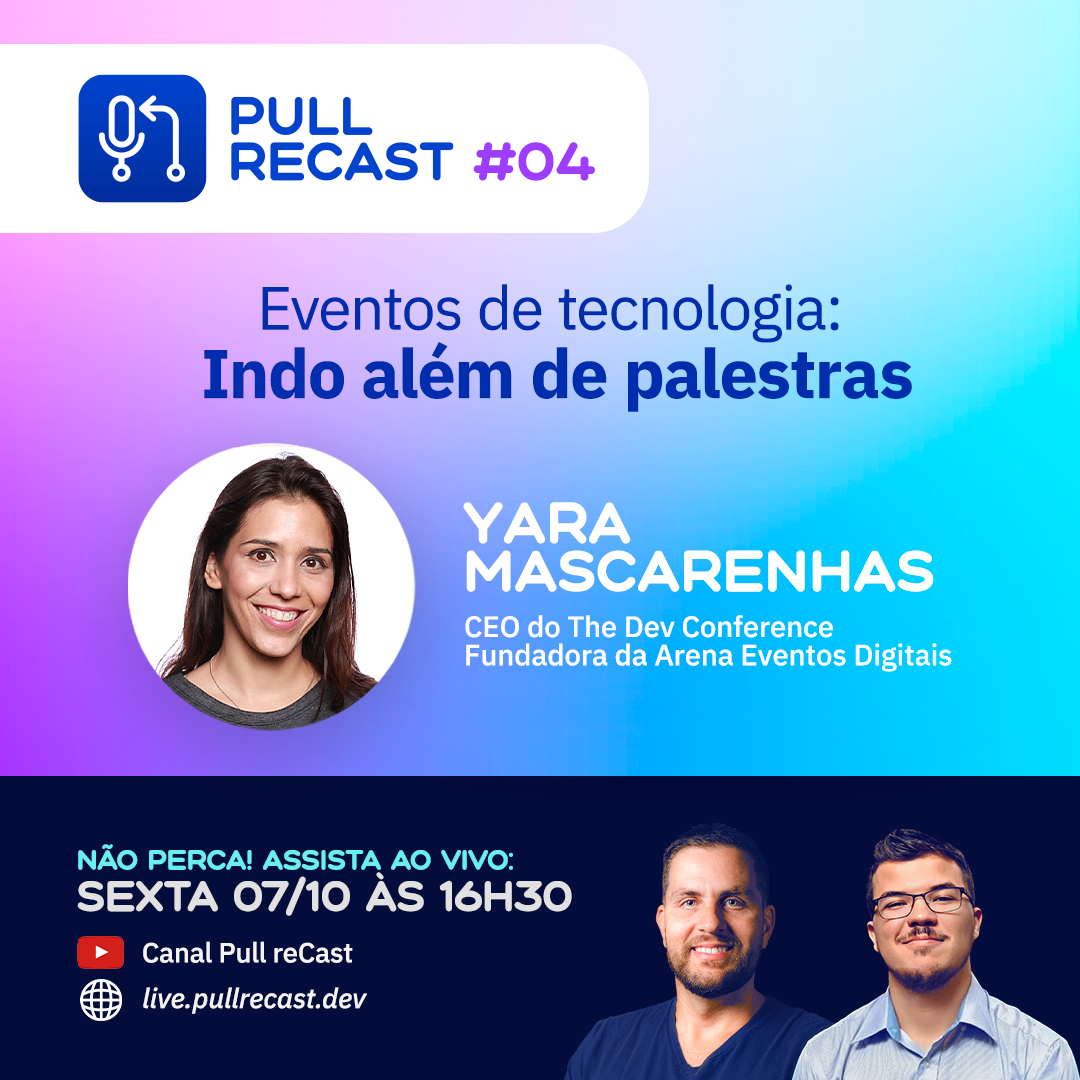
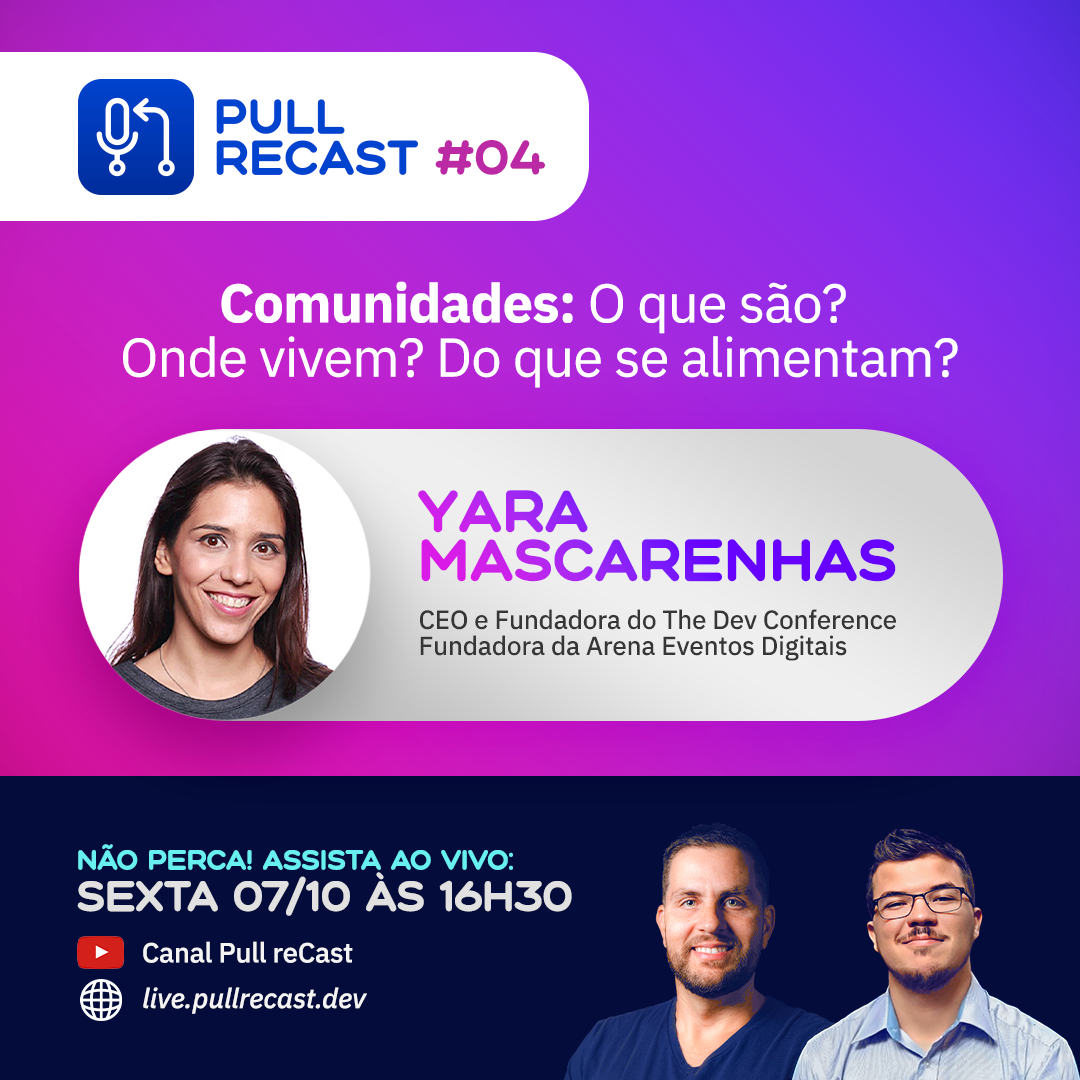
atualizar titulo ep004

diff --git a/content/ep004.md b/content/ep004.md
@@ -2,12 +2,12 @@
 title: "Pull reCast #4"
 date: 2022-09-30T12:35:40-03:00
 draft: false
-description: Eventos de tecnologia Indo além de palestras
+description: Comunidades, O que são? Onde vivem? Do que se alimentam?
 ---
 
 [![Agile](/images/flyer_live4.png)](https://youtu.be/XKzsiiylNas)
 
-# Eventos de tecnologia:<br/>Indo além de palestras
+# Comunidades: O que são? Onde vivem? Do que se alimentam?
 
 ## O quarto episódio irá ao ar na sexta-feira 7 de Outubro de 2022, ao vivo à 16h30 (Brasília), no [canal do YouTube](https://canal.pullrecast.dev).
 

diff --git a/content/_index.md b/content/_index.md
@@ -11,7 +11,7 @@ description: "Bate-papo quase semanal descontraído sobre tecnologia"
 ## Próximo episódio: 
 
 #### Sexta-feita 07 de Outrubro 16h30
-[#4 Eventos de tecnologia: Indo além de palestras?](/ep004)
+[#4 Comunidades: O que são? Onde vivem? Do que se alimentam?](/ep004)
 
 <div class="container">
   <iframe class="responsive-iframe" src="https://www.youtube.com/embed/XKzsiiylNas" title="YouTube video player" frameborder="0" allow="accelerometer; autoplay; clipboard-write; encrypted-media; gyroscope; picture-in-picture" allowfullscreen></iframe>
